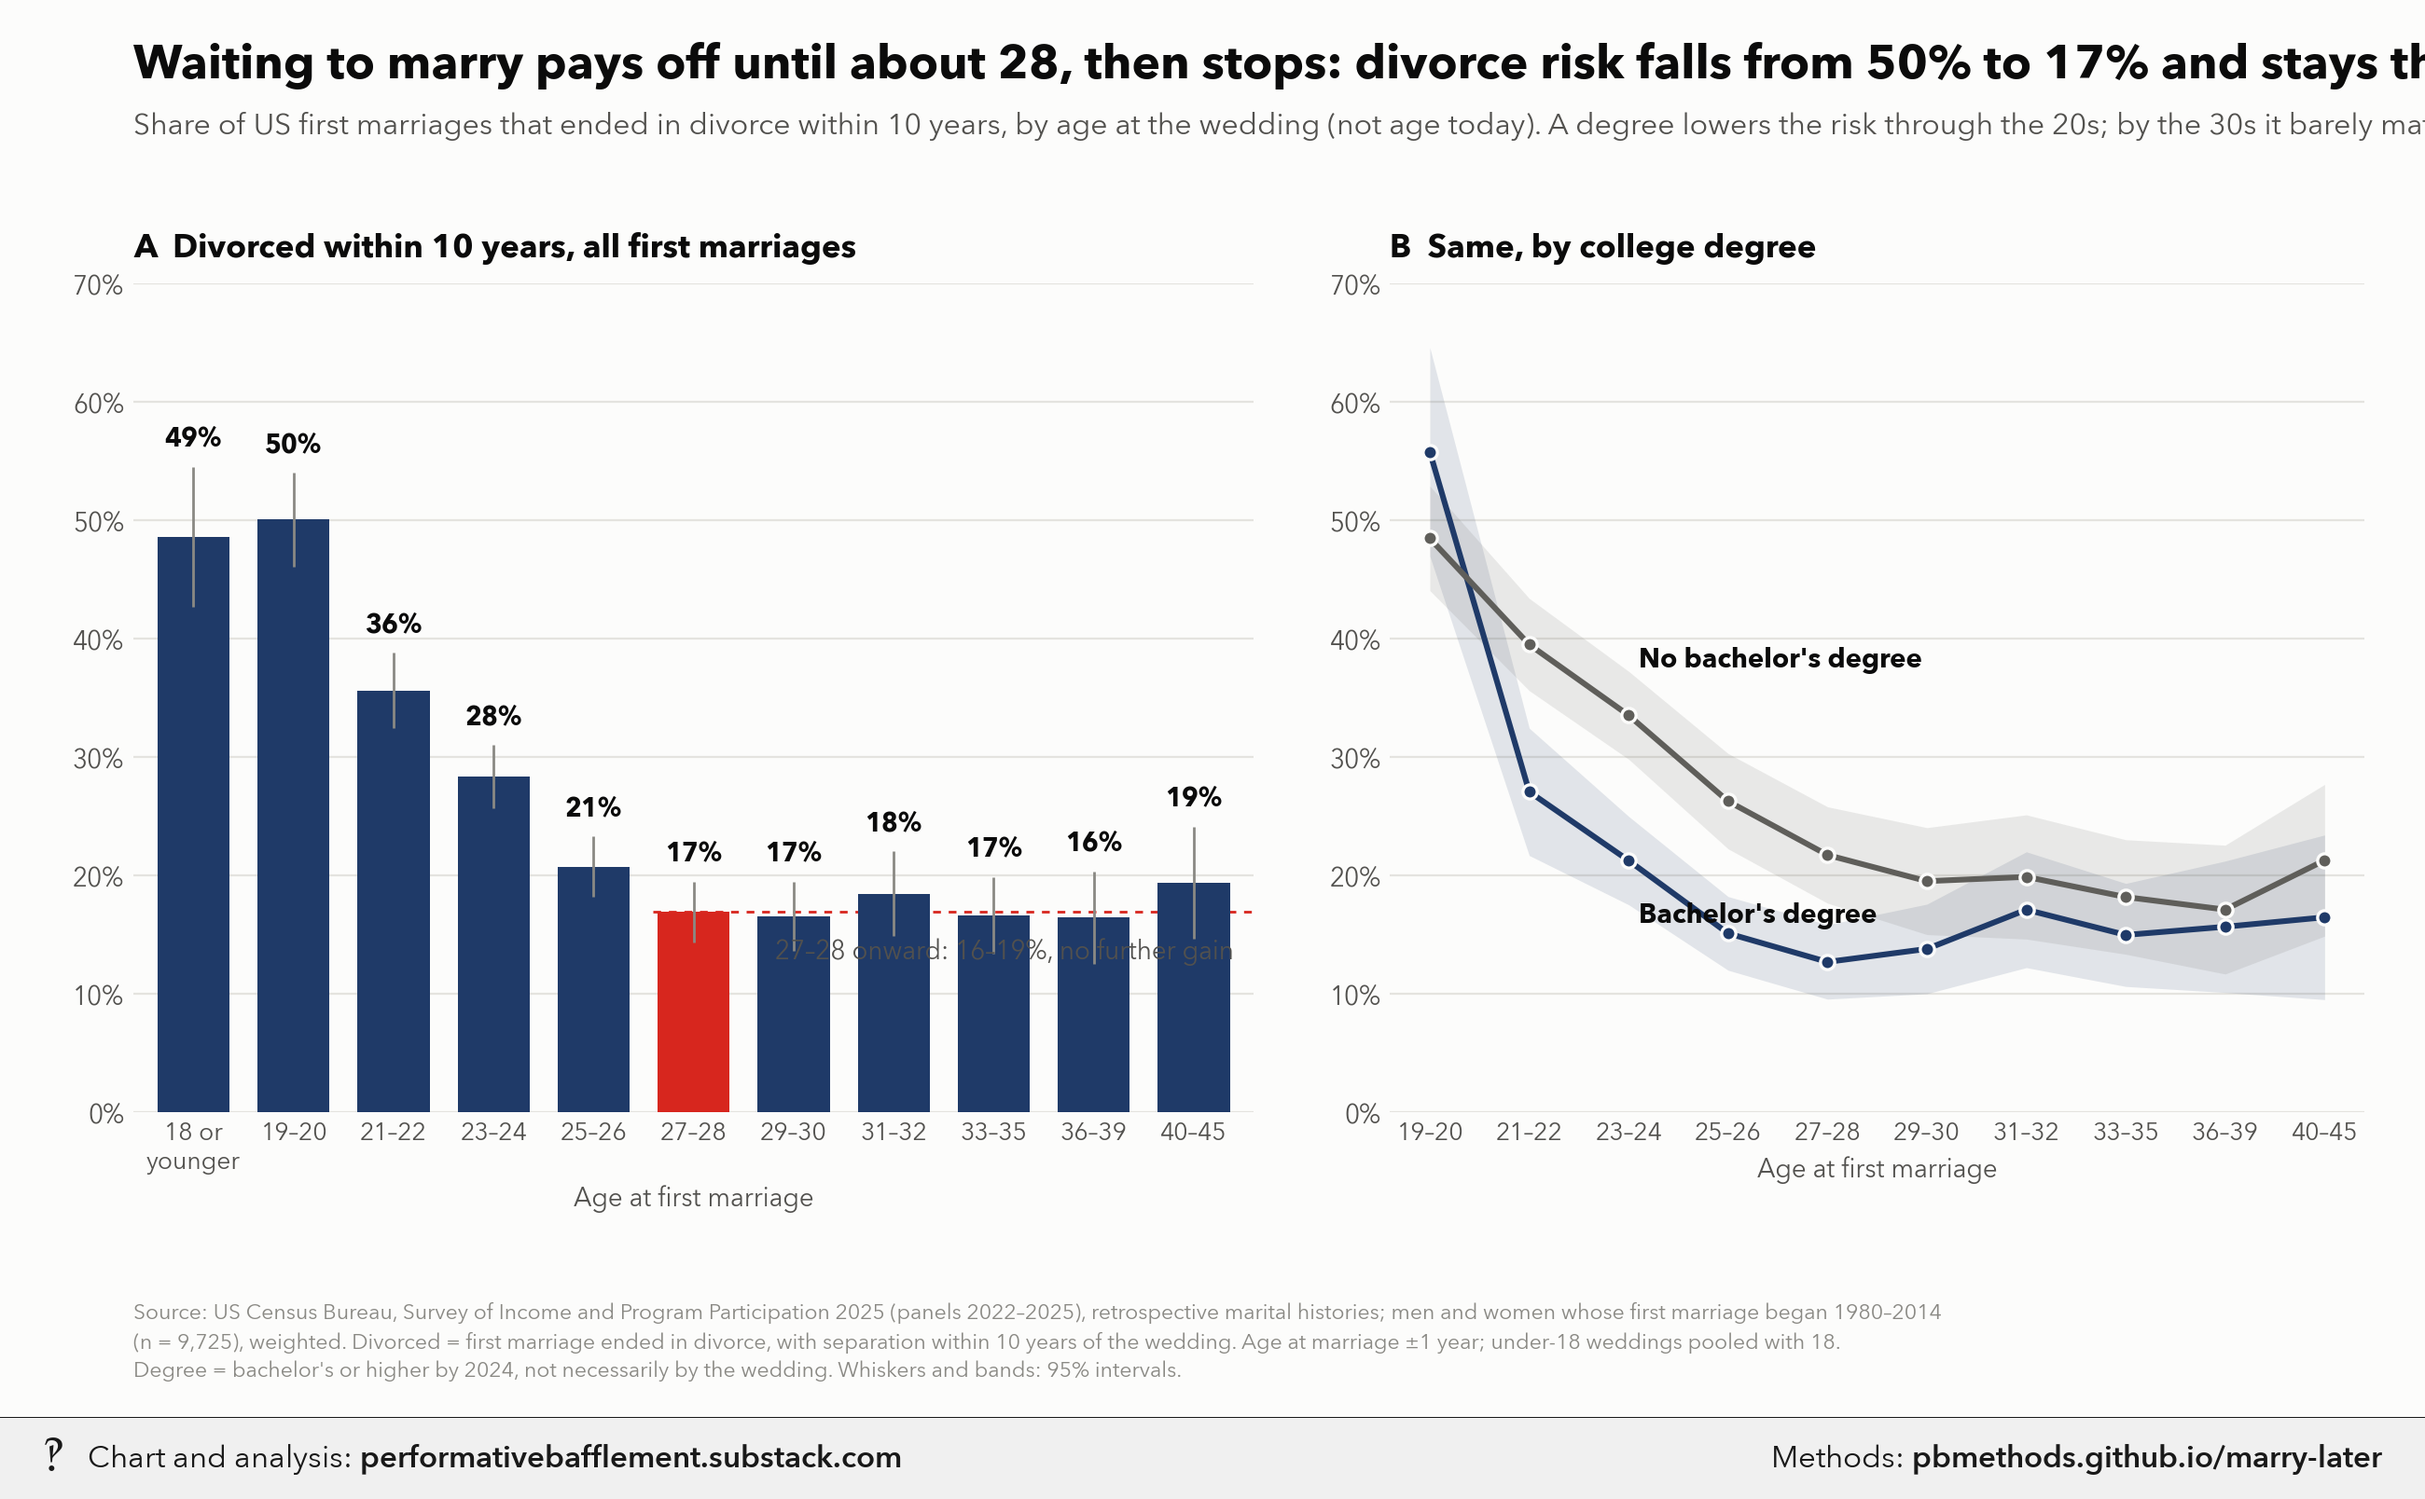
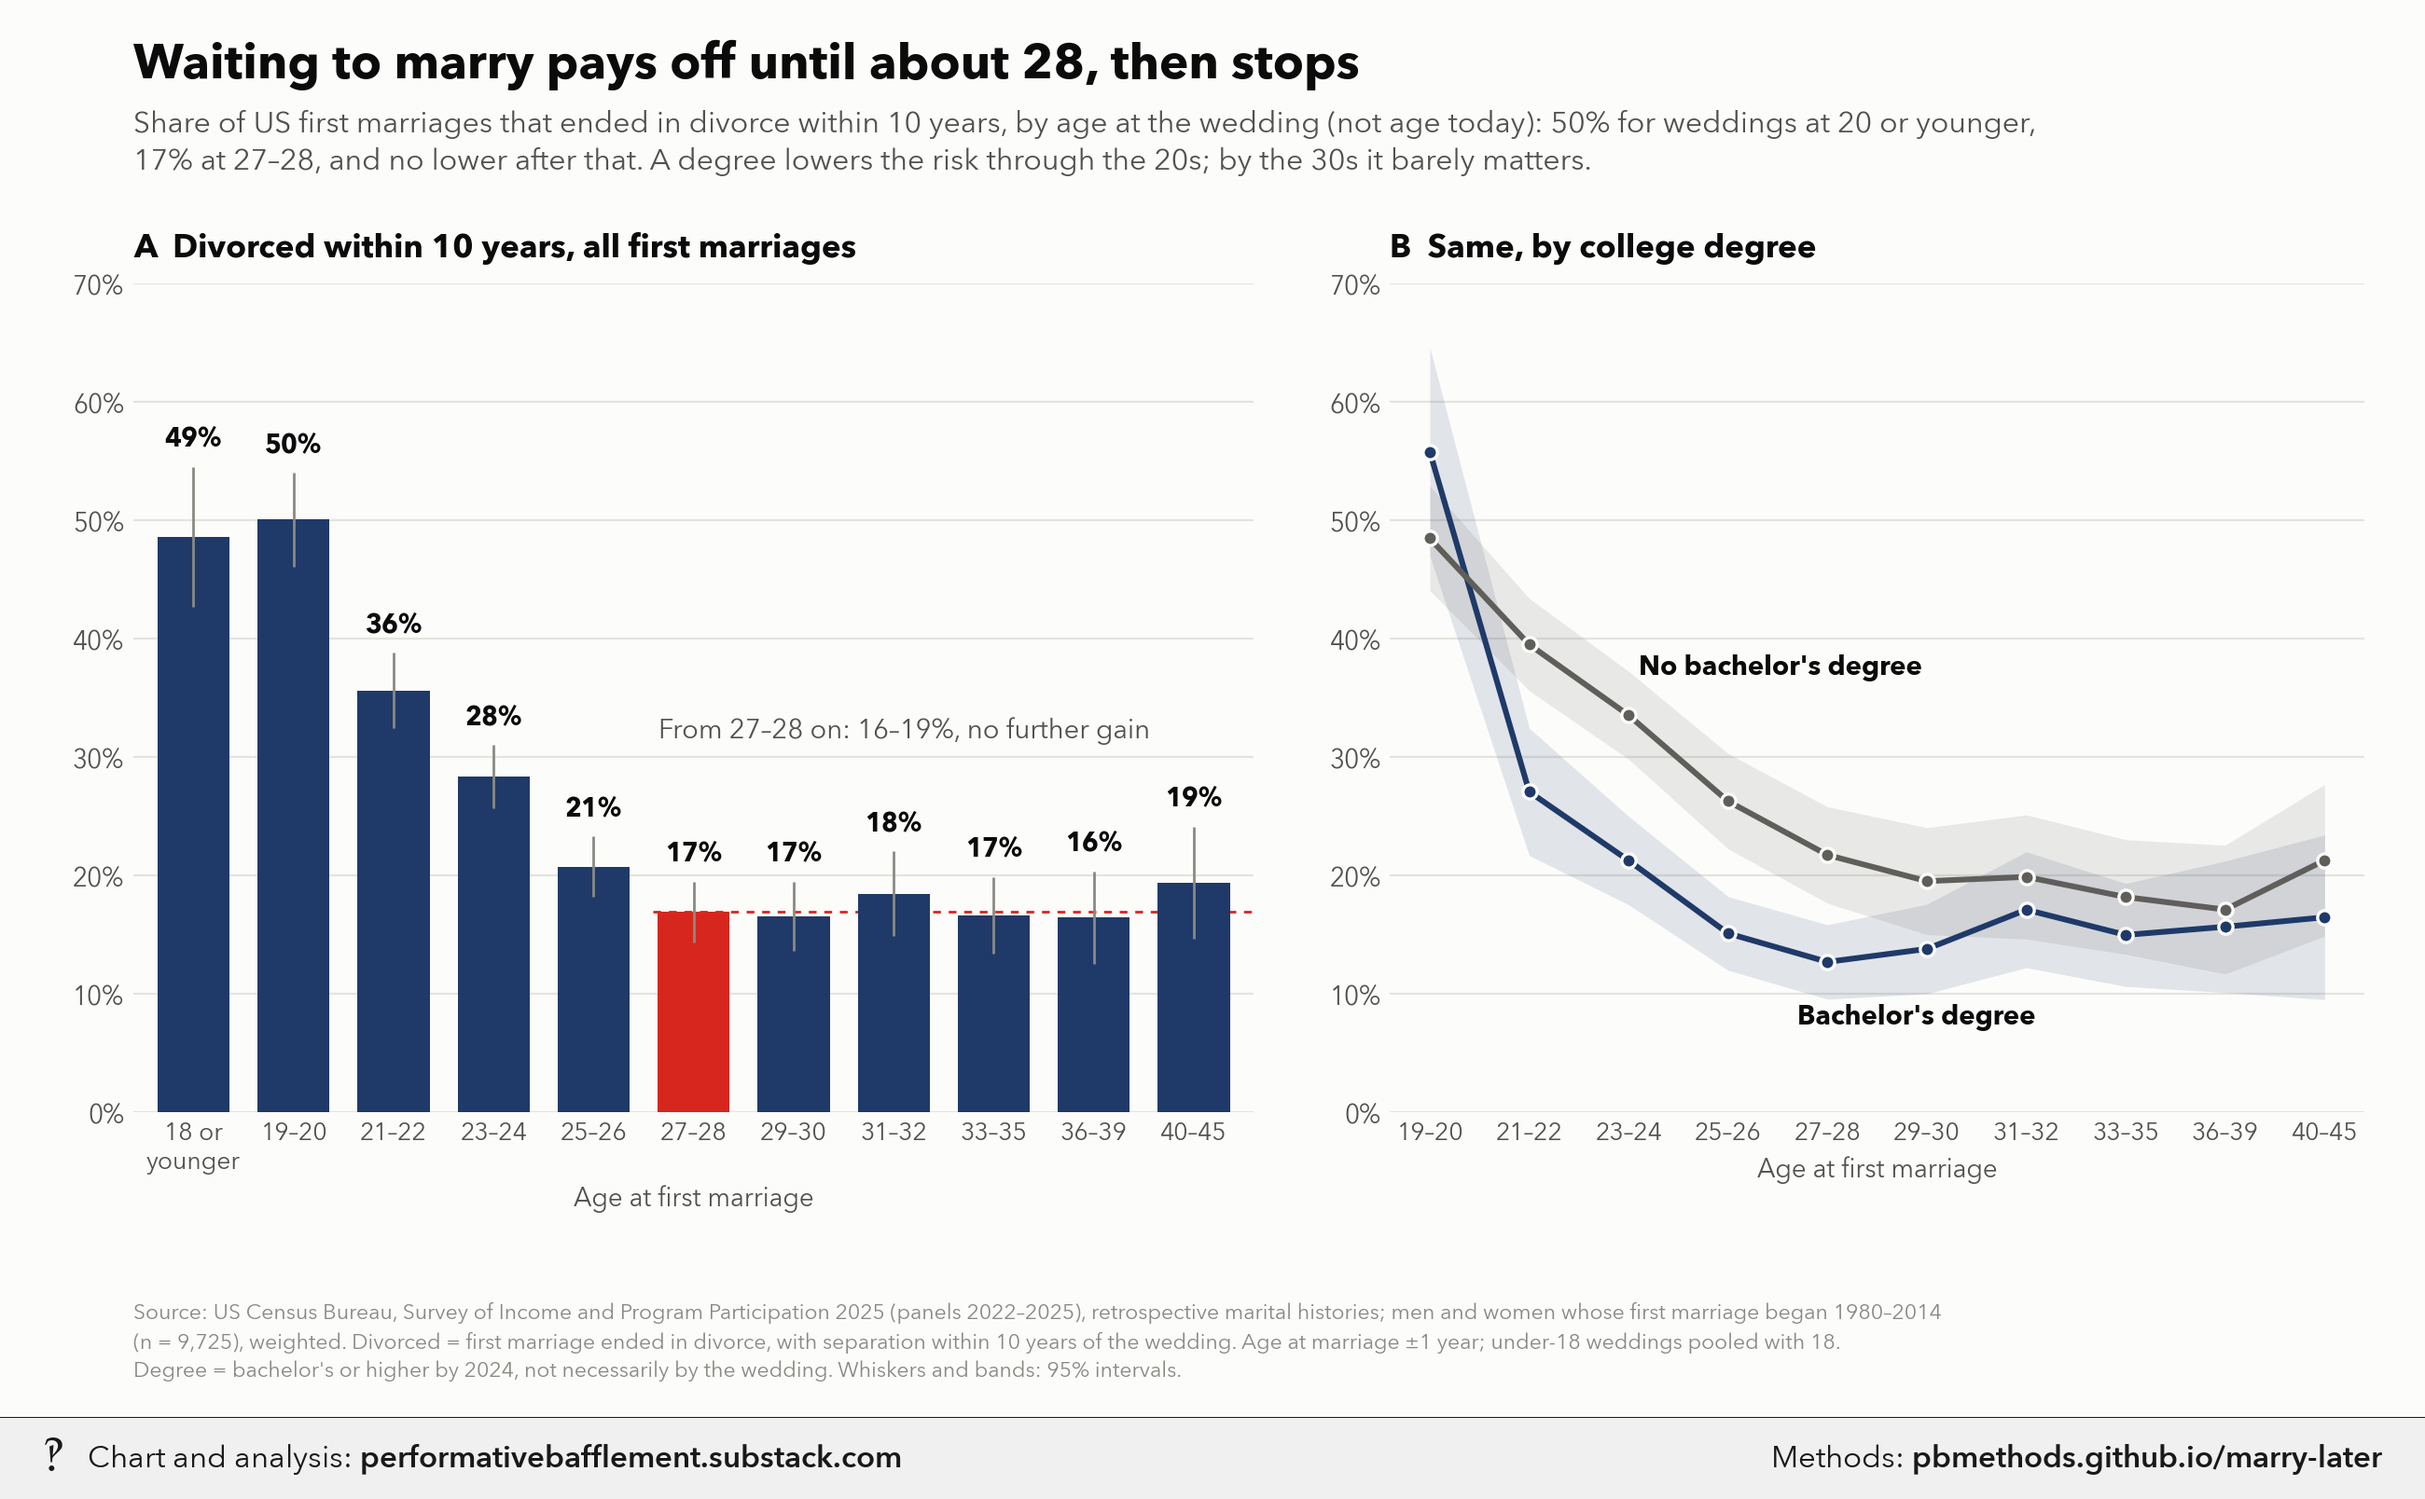
Update marry-later

diff --git a/marry-later/index.html b/marry-later/index.html
@@ -1466,11 +1466,12 @@ def main():
     gs = fig.add_gridspec(1, 2, left=0.055, right=0.975, top=0.80, bottom=0.215, wspace=0.13, width_ratios=[1.15, 1])
     a, c = fig.add_subplot(gs[0]), fig.add_subplot(gs[1])
 
-    fig.text(0.055, 0.945, f&quot;Waiting to marry pays off until about 28, then stops: divorce risk falls from {young_p:.0f}% to &quot;
-             f&quot;{plat:.0f}% and stays there&quot;, fontsize=18.5, fontweight=&quot;bold&quot;, ha=&quot;left&quot;)
-    fig.text(0.055, 0.905, &quot;Share of US first marriages that ended in divorce within 10 years, by age at the wedding &quot;
-             &quot;(not age today). A degree lowers the risk through the 20s; by the 30s it barely matters.&quot;,
-             fontsize=11.5, color=INK2, ha=&quot;left&quot;)
+    fig.text(0.055, 0.945, &quot;Waiting to marry pays off until about 28, then stops&quot;, fontsize=19, fontweight=&quot;bold&quot;,
+             ha=&quot;left&quot;)
+    fig.text(0.055, 0.88, f&quot;Share of US first marriages that ended in divorce within 10 years, by age at the wedding (not age &quot;
+             f&quot;today): {young_p:.0f}% for weddings at 20 or younger,\n{plat:.0f}% at 27–28, and no lower after that. A &quot;
+             f&quot;degree lowers the risk through the 20s; by the 30s it barely matters.&quot;, fontsize=11.5, color=INK2,
+             ha=&quot;left&quot;, linespacing=1.4)
 
     # A: bars by age at marriage
     x = np.arange(len(al))
@@ -1482,8 +1483,8 @@ def main():
     for xi, yi, hi in zip(x, y, al.hi * 100):
         a.text(xi, hi + 1.2, f&quot;{yi:.0f}%&quot;, ha=&quot;center&quot;, va=&quot;bottom&quot;, fontsize=10, fontweight=&quot;bold&quot;, color=INK)
     a.axhline(plat, xmin=(PLATEAU + 0.1) / len(al), xmax=1, color=pb.RED, lw=1, ls=(0, (3, 3)), zorder=1)
-    a.text(len(al) - 0.6, plat - 2.2, f&quot;27–28 onward: {later.min():.0f}–{later.max():.0f}%, no further gain&quot;,
-           ha=&quot;right&quot;, va=&quot;top&quot;, fontsize=10, color=INK2)
+    a.text(PLATEAU - 0.35, 31, f&quot;From 27–28 on: {later.min():.0f}–{later.max():.0f}%, no further gain&quot;,
+           ha=&quot;left&quot;, va=&quot;bottom&quot;, fontsize=10.5, color=INK2)
     a.set_xticks(x)
     a.set_xticklabels(al.label, fontsize=9.5)
     a.set_xlim(-0.6, len(al) - 0.4)
@@ -1494,13 +1495,13 @@ def main():
     a.set_title(&quot;A  Divorced within 10 years, all first marriages&quot;, loc=&quot;left&quot;, fontsize=12.5, fontweight=&quot;bold&quot;, pad=10)
 
     # B: degree vs no degree
-    for g, col, lab, dy in [(ba, pb.NAVY, &quot;Bachelor's degree&quot;, -3.5), (no, pb.GRAYS[1], &quot;No bachelor's degree&quot;, 3.5)]:
+    for g, col, lab, xy in [(ba, pb.NAVY, &quot;Bachelor's degree&quot;, (4.7, 8)), (no, pb.GRAYS[1], &quot;No bachelor's degree&quot;,
+                                                                             (3.1, 37.5))]:
         xb = g.bin.to_numpy()
         yb = g.share.to_numpy() * 100
         c.fill_between(xb, g.lo * 100, g.hi * 100, color=col, alpha=0.12, lw=0, zorder=1)
         c.plot(xb, yb, color=col, lw=2.2, marker=&quot;o&quot;, ms=5.5, mec=pb.SURFACE, mew=1.2, zorder=3)
-        c.text(3.1, yb[xb == 3][0] + dy, lab, fontsize=10.5, fontweight=&quot;bold&quot;, color=INK, ha=&quot;left&quot;,
-               va=&quot;bottom&quot; if dy &gt; 0 else &quot;top&quot;)
+        c.text(*xy, lab, fontsize=10.5, fontweight=&quot;bold&quot;, color=INK, ha=&quot;left&quot;, va=&quot;center&quot;)
     c.set_xticks(ba.bin)
     c.set_xticklabels(ba.label, fontsize=9.5)
     c.set_xlim(B_FIRST - 0.4, len(al) - 0.6)

diff --git a/marry-later/methods.md b/marry-later/methods.md
@@ -386,11 +386,12 @@ def main():
     gs = fig.add_gridspec(1, 2, left=0.055, right=0.975, top=0.80, bottom=0.215, wspace=0.13, width_ratios=[1.15, 1])
     a, c = fig.add_subplot(gs[0]), fig.add_subplot(gs[1])
 
-    fig.text(0.055, 0.945, f"Waiting to marry pays off until about 28, then stops: divorce risk falls from {young_p:.0f}% to "
-             f"{plat:.0f}% and stays there", fontsize=18.5, fontweight="bold", ha="left")
-    fig.text(0.055, 0.905, "Share of US first marriages that ended in divorce within 10 years, by age at the wedding "
-             "(not age today). A degree lowers the risk through the 20s; by the 30s it barely matters.",
-             fontsize=11.5, color=INK2, ha="left")
+    fig.text(0.055, 0.945, "Waiting to marry pays off until about 28, then stops", fontsize=19, fontweight="bold",
+             ha="left")
+    fig.text(0.055, 0.88, f"Share of US first marriages that ended in divorce within 10 years, by age at the wedding (not age "
+             f"today): {young_p:.0f}% for weddings at 20 or younger,\n{plat:.0f}% at 27–28, and no lower after that. A "
+             f"degree lowers the risk through the 20s; by the 30s it barely matters.", fontsize=11.5, color=INK2,
+             ha="left", linespacing=1.4)
 
     # A: bars by age at marriage
     x = np.arange(len(al))
@@ -402,8 +403,8 @@ def main():
     for xi, yi, hi in zip(x, y, al.hi * 100):
         a.text(xi, hi + 1.2, f"{yi:.0f}%", ha="center", va="bottom", fontsize=10, fontweight="bold", color=INK)
     a.axhline(plat, xmin=(PLATEAU + 0.1) / len(al), xmax=1, color=pb.RED, lw=1, ls=(0, (3, 3)), zorder=1)
-    a.text(len(al) - 0.6, plat - 2.2, f"27–28 onward: {later.min():.0f}–{later.max():.0f}%, no further gain",
-           ha="right", va="top", fontsize=10, color=INK2)
+    a.text(PLATEAU - 0.35, 31, f"From 27–28 on: {later.min():.0f}–{later.max():.0f}%, no further gain",
+           ha="left", va="bottom", fontsize=10.5, color=INK2)
     a.set_xticks(x)
     a.set_xticklabels(al.label, fontsize=9.5)
     a.set_xlim(-0.6, len(al) - 0.4)
@@ -414,13 +415,13 @@ def main():
     a.set_title("A  Divorced within 10 years, all first marriages", loc="left", fontsize=12.5, fontweight="bold", pad=10)
 
     # B: degree vs no degree
-    for g, col, lab, dy in [(ba, pb.NAVY, "Bachelor's degree", -3.5), (no, pb.GRAYS[1], "No bachelor's degree", 3.5)]:
+    for g, col, lab, xy in [(ba, pb.NAVY, "Bachelor's degree", (4.7, 8)), (no, pb.GRAYS[1], "No bachelor's degree",
+                                                                             (3.1, 37.5))]:
         xb = g.bin.to_numpy()
         yb = g.share.to_numpy() * 100
         c.fill_between(xb, g.lo * 100, g.hi * 100, color=col, alpha=0.12, lw=0, zorder=1)
         c.plot(xb, yb, color=col, lw=2.2, marker="o", ms=5.5, mec=pb.SURFACE, mew=1.2, zorder=3)
-        c.text(3.1, yb[xb == 3][0] + dy, lab, fontsize=10.5, fontweight="bold", color=INK, ha="left",
-               va="bottom" if dy > 0 else "top")
+        c.text(*xy, lab, fontsize=10.5, fontweight="bold", color=INK, ha="left", va="center")
     c.set_xticks(ba.bin)
     c.set_xticklabels(ba.label, fontsize=9.5)
     c.set_xlim(B_FIRST - 0.4, len(al) - 0.6)
